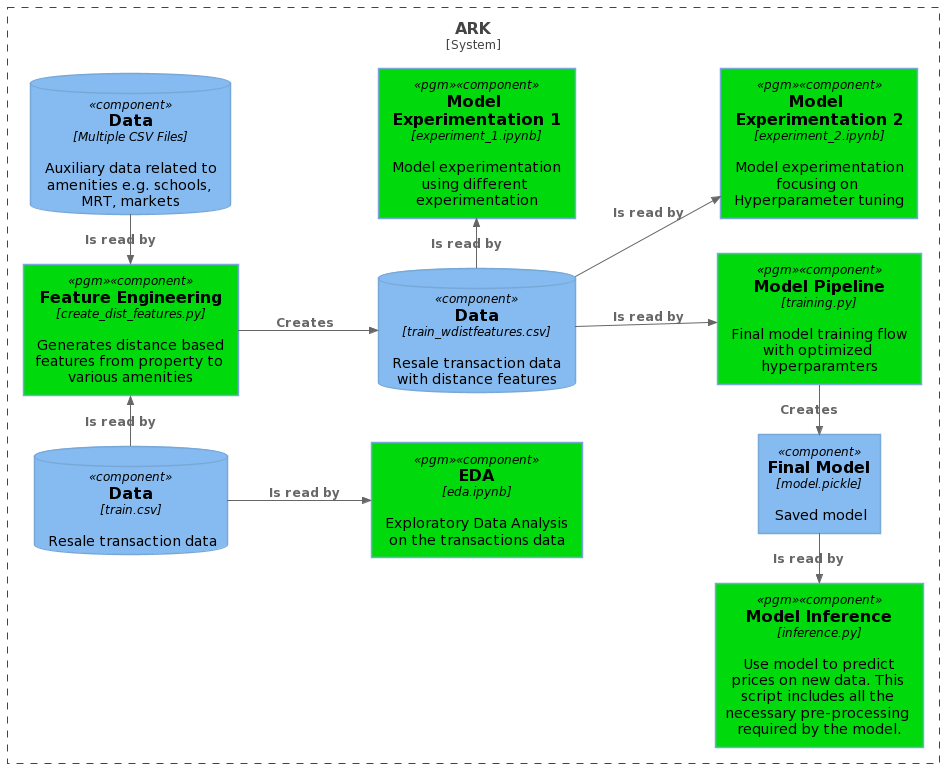
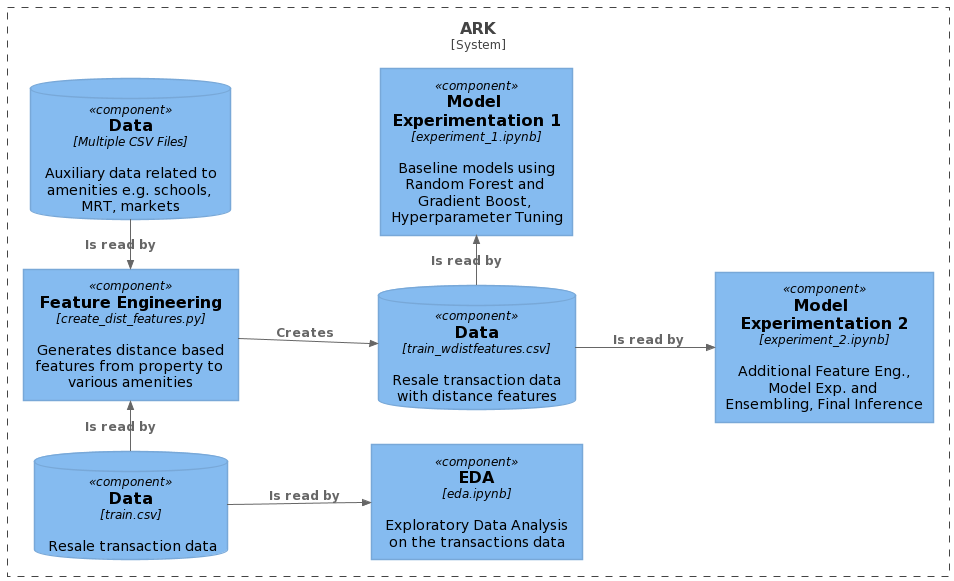
New system diagram, updated README

diff --git a/README.md b/README.md
@@ -21,7 +21,7 @@ In order to run the various code scripts and notebooks, you will need to have in
 
 1. Clone a copy of this repository on your local system
 
-`> git clone link_to_git_repo`
+`> git clone https://github.com/azmimr/ark_2021.git`
 
 2. Create a new conda environment. This will install Python and the necessary libraries and packages to be able to run the various scripts and notebooks. A new environment named `ark` will be created.
 
@@ -31,7 +31,15 @@ In order to run the various code scripts and notebooks, you will need to have in
 
 `> conda activate ark`
 
-Your environmnent is all setup!
+4. Install pandas-lightning
+
+Run the following command:
+
+`> pip install git+https://github.com/remykarem/pandas-lightning#egg=pandas-lightning`
+
+This is a Python module created by one of our members (Raimi bin Karim) that wraps around Pandas to provide a simpler interface for some DataFrame operations.
+
+Congratulations! Your environmnent is all setup.
 
 ## How to Run
 
@@ -39,29 +47,42 @@ Your environmnent is all setup!
 
 The above diagram illustrates the key components of this solution. To replicate the findings of this project, the following steps are required:
 
-### Jupyter Notebook
+**NOTES** : Jupyter Notebook
 
-1. To view or execute the various Jupyter notebooks, a server must be running. Start a terminal and run the following command in the main directory of the project folder. 
+To view or execute the various Jupyter notebooks, a server must be running. Start a terminal and run the following command in the main directory of the project folder. 
 
-`> jupyter notebooks` or `> jupyter labs`
-
-2. Within Jupyter, open the Exploratory Data Analysis (EDA) notebook `eda.ipynb`. Run all the cells if necessary.
-
-3. To view the test code to create the distance-based features, open 'test_create_distance_features.ipynb`
+`> jupyter notebooks` or `> jupyter lab`
 
 
 ### Modelling Pipeline
 
-1. Distance-based Feature generation
+#### 1. Exploratory Data Analysis
+
+Within the Jupyter interface in a Web Browser, open the Exploratory Data Analysis (EDA) notebook `notebooks\eda.ipynb`. Run all the cells if necessary.
+
+#### 2. Distance-based Feature generation
 Using a terminal, run the following program in the main folder of the repository
 
 `> python -m src.create_dist_features data\train.csv`
 
 Where `data\train.csv` is the path to the raw data file.
 
+#### 3. Baseline Modelling
+
+Open `notebooks\experiment_1.ipynb` in a Jupyter instance to see the code for the base line models. These model use the basic features directly from the training data. The notebook includes some observations related to the feature importance and model performance.
+
+#### 4. Feature Engineering, Model Selection, Hyperparameter Tuning, Ensembling and Test Data Inference
+The last notebook `notebook\experiment_2.ipynb` is the following aspects of the project:
+
+- Feature Engineering: Using the data that includes feature-based features, create additional features
+- Feature Selection: Several different models were created using different algorithms
+- Model Ensembling: The final model was created by ensembling 
+- Inference on the test data for the Kaggle competition submission. Please apply the distance feature generation script (step 2) on the test data before ingesting into this notebook.
 
 
-## Notes
+## Conclusion
+
+For this project, we were able to achieve an RMSE error of S$16,317.19 for our final submitted model.
 
 
 
